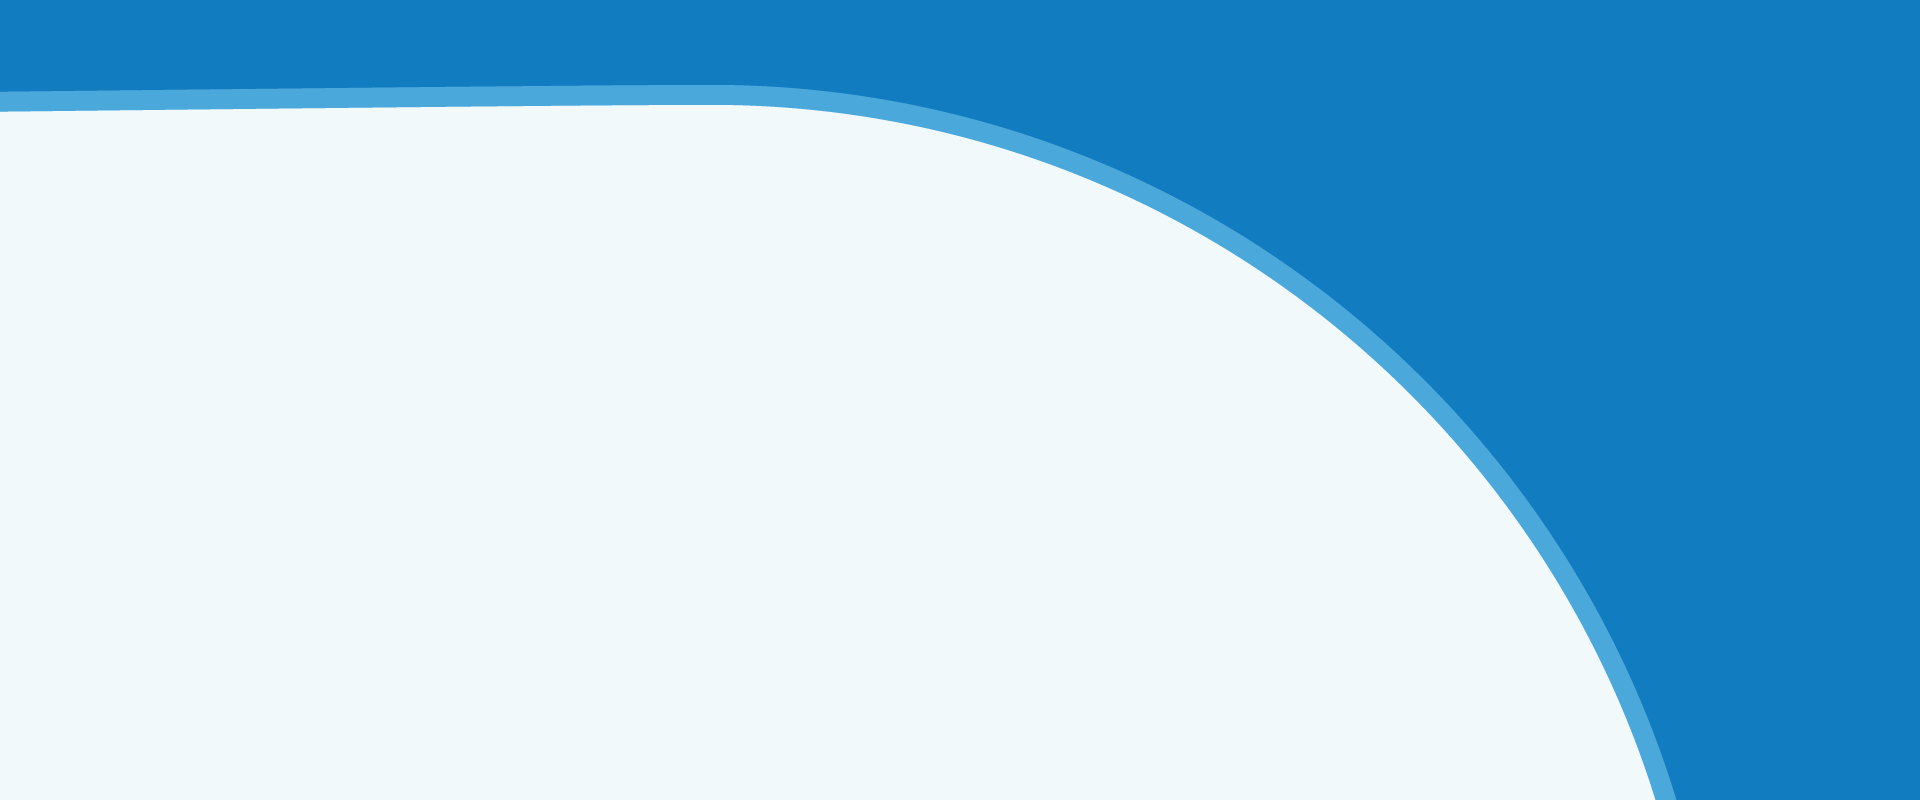
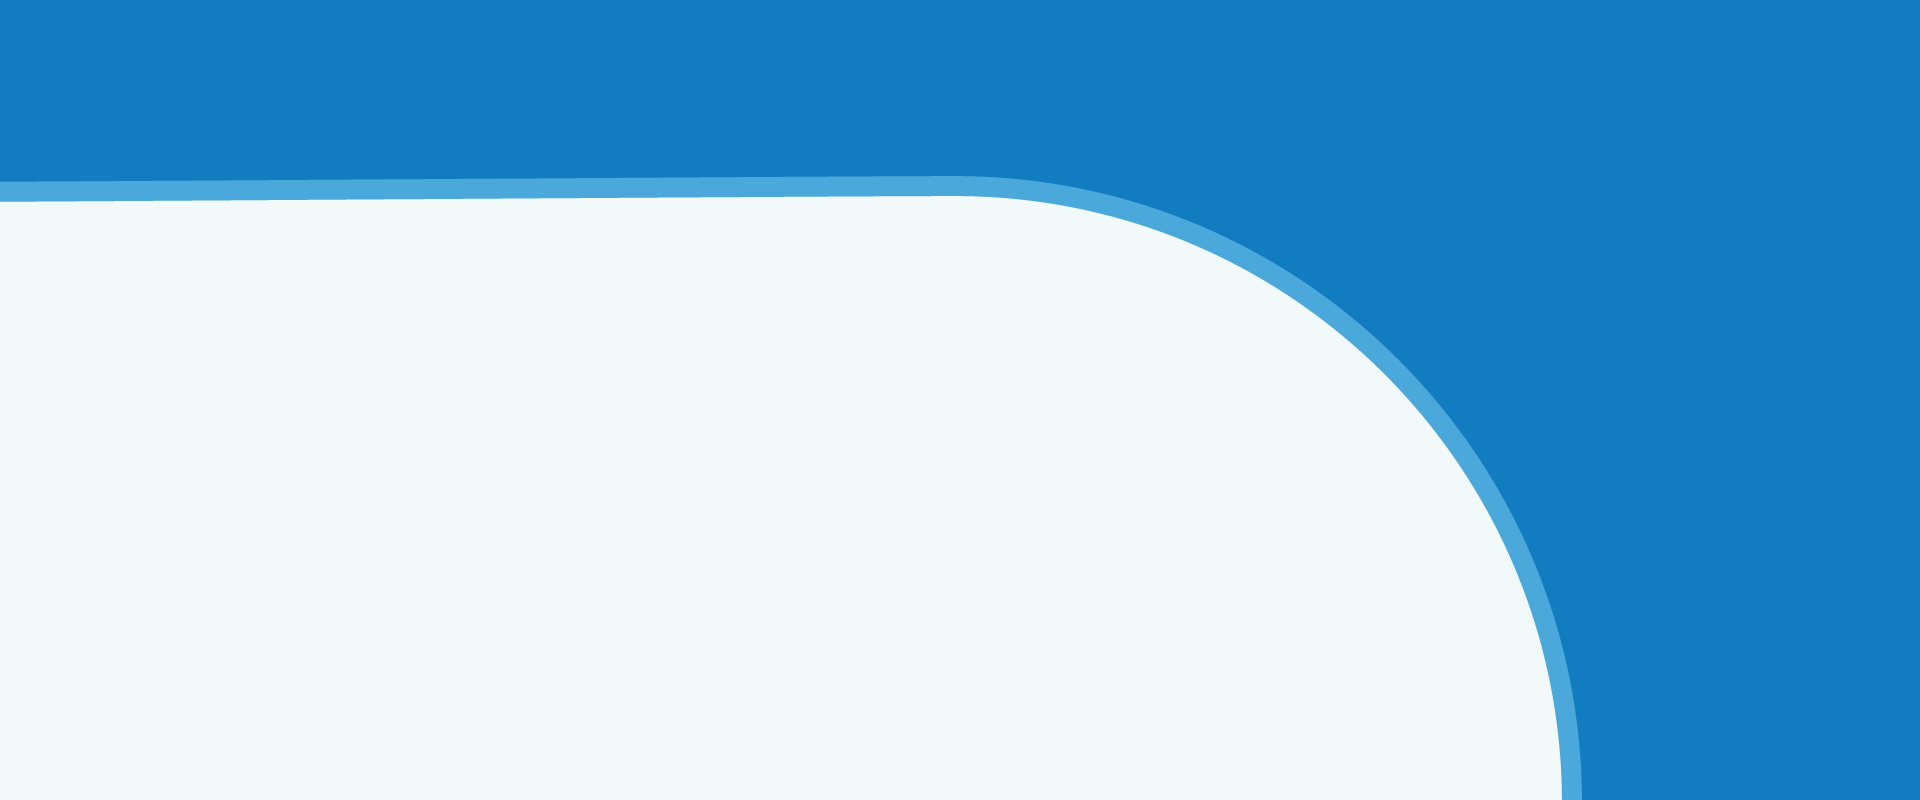
Progress
About section

Changed region(s): [[0.0, 0.0938, 0.6875, 0.375], [0.7188, 0.4375, 0.875, 1.0], [0.6875, 0.375, 0.7188, 0.4375]]

diff --git a/Style.css b/Style.css
@@ -87,12 +87,52 @@ h1, h2, h3, h4, h5, h6
 .banner__main
 {
     text-align: center;
-    color: var(--primaary_color);
+    color: var(--dark_blue);
 }
 .banner__main > h1
 {
     font-size: 50px ;
 }
+
+/* About section */
+.About
+{
+    background-color: var(--heading_blue);
+    height: 40vh;
+    border-top: 20px solid #4BA8DA;
+}
+.About__main
+{
+    display: flex;
+    justify-content: space-between;
+    align-items: center;
+    margin-top: 50px;
+}
+.About__main__profile,.About__main__text
+{
+    flex-basis: 50%;
+}
+.About__main__text
+{
+    background-color: #fff;
+    padding: 50px;
+    border-radius: 50px;
+    box-shadow: 15px 10px 20px #4ba8da6c;
+}
+.About__main__text >h1
+{
+    padding-bottom: 25px;
+}
+
+
+
+
+
+
+
+
+
+
 
 
 @media only screen and (max-width: 1024px)

diff --git a/index.php b/index.php
@@ -8,10 +8,21 @@
 </head>
 <body>
     <?php require_once("header.php")?>
-    <section class="banner">
-        /<div class="banner__main container">
+    <section id="#home" class="banner">
+        <div class="banner__main container">
         <h1>Shahzeb Malik</h1>
         <h2>Web Problem Solver</h2>
+        </div>
+    </section>
+    <section class="About" id="#About">
+        <div class="About__main container">
+            <div class="About__main__profile">
+                &ensp;
+            </div>
+            <div class="About__main__text">
+                <h1>About Me</h1>
+                <p>I'm a person not afraid of any kind of challenge. Someone who can implement design through various programming languages and CMS. All these descriptions can go for a good front-end developer. But who is this software professional whose work we can see everywhere on the Internet and without whom we wouldn't be able to enjoy our favorite websites the way we do? It's someone with extensive knowledge of technologies like HTML, CSS, and JavaScript. Someone who gives you (a user) the opportunity to interact with the website and website applications directly. And finally, someone that makes sure you can open up and browse the site on any device or in any browser and the information will still be relevant and easy to read. For me, communication plays an instrumental role in the development process and I strive to keep my clients involved every stage. My penchant for detail allows me to balance form and function every step of the way.</p>  
+            </div>
         </div>
     </section>
 </body>
